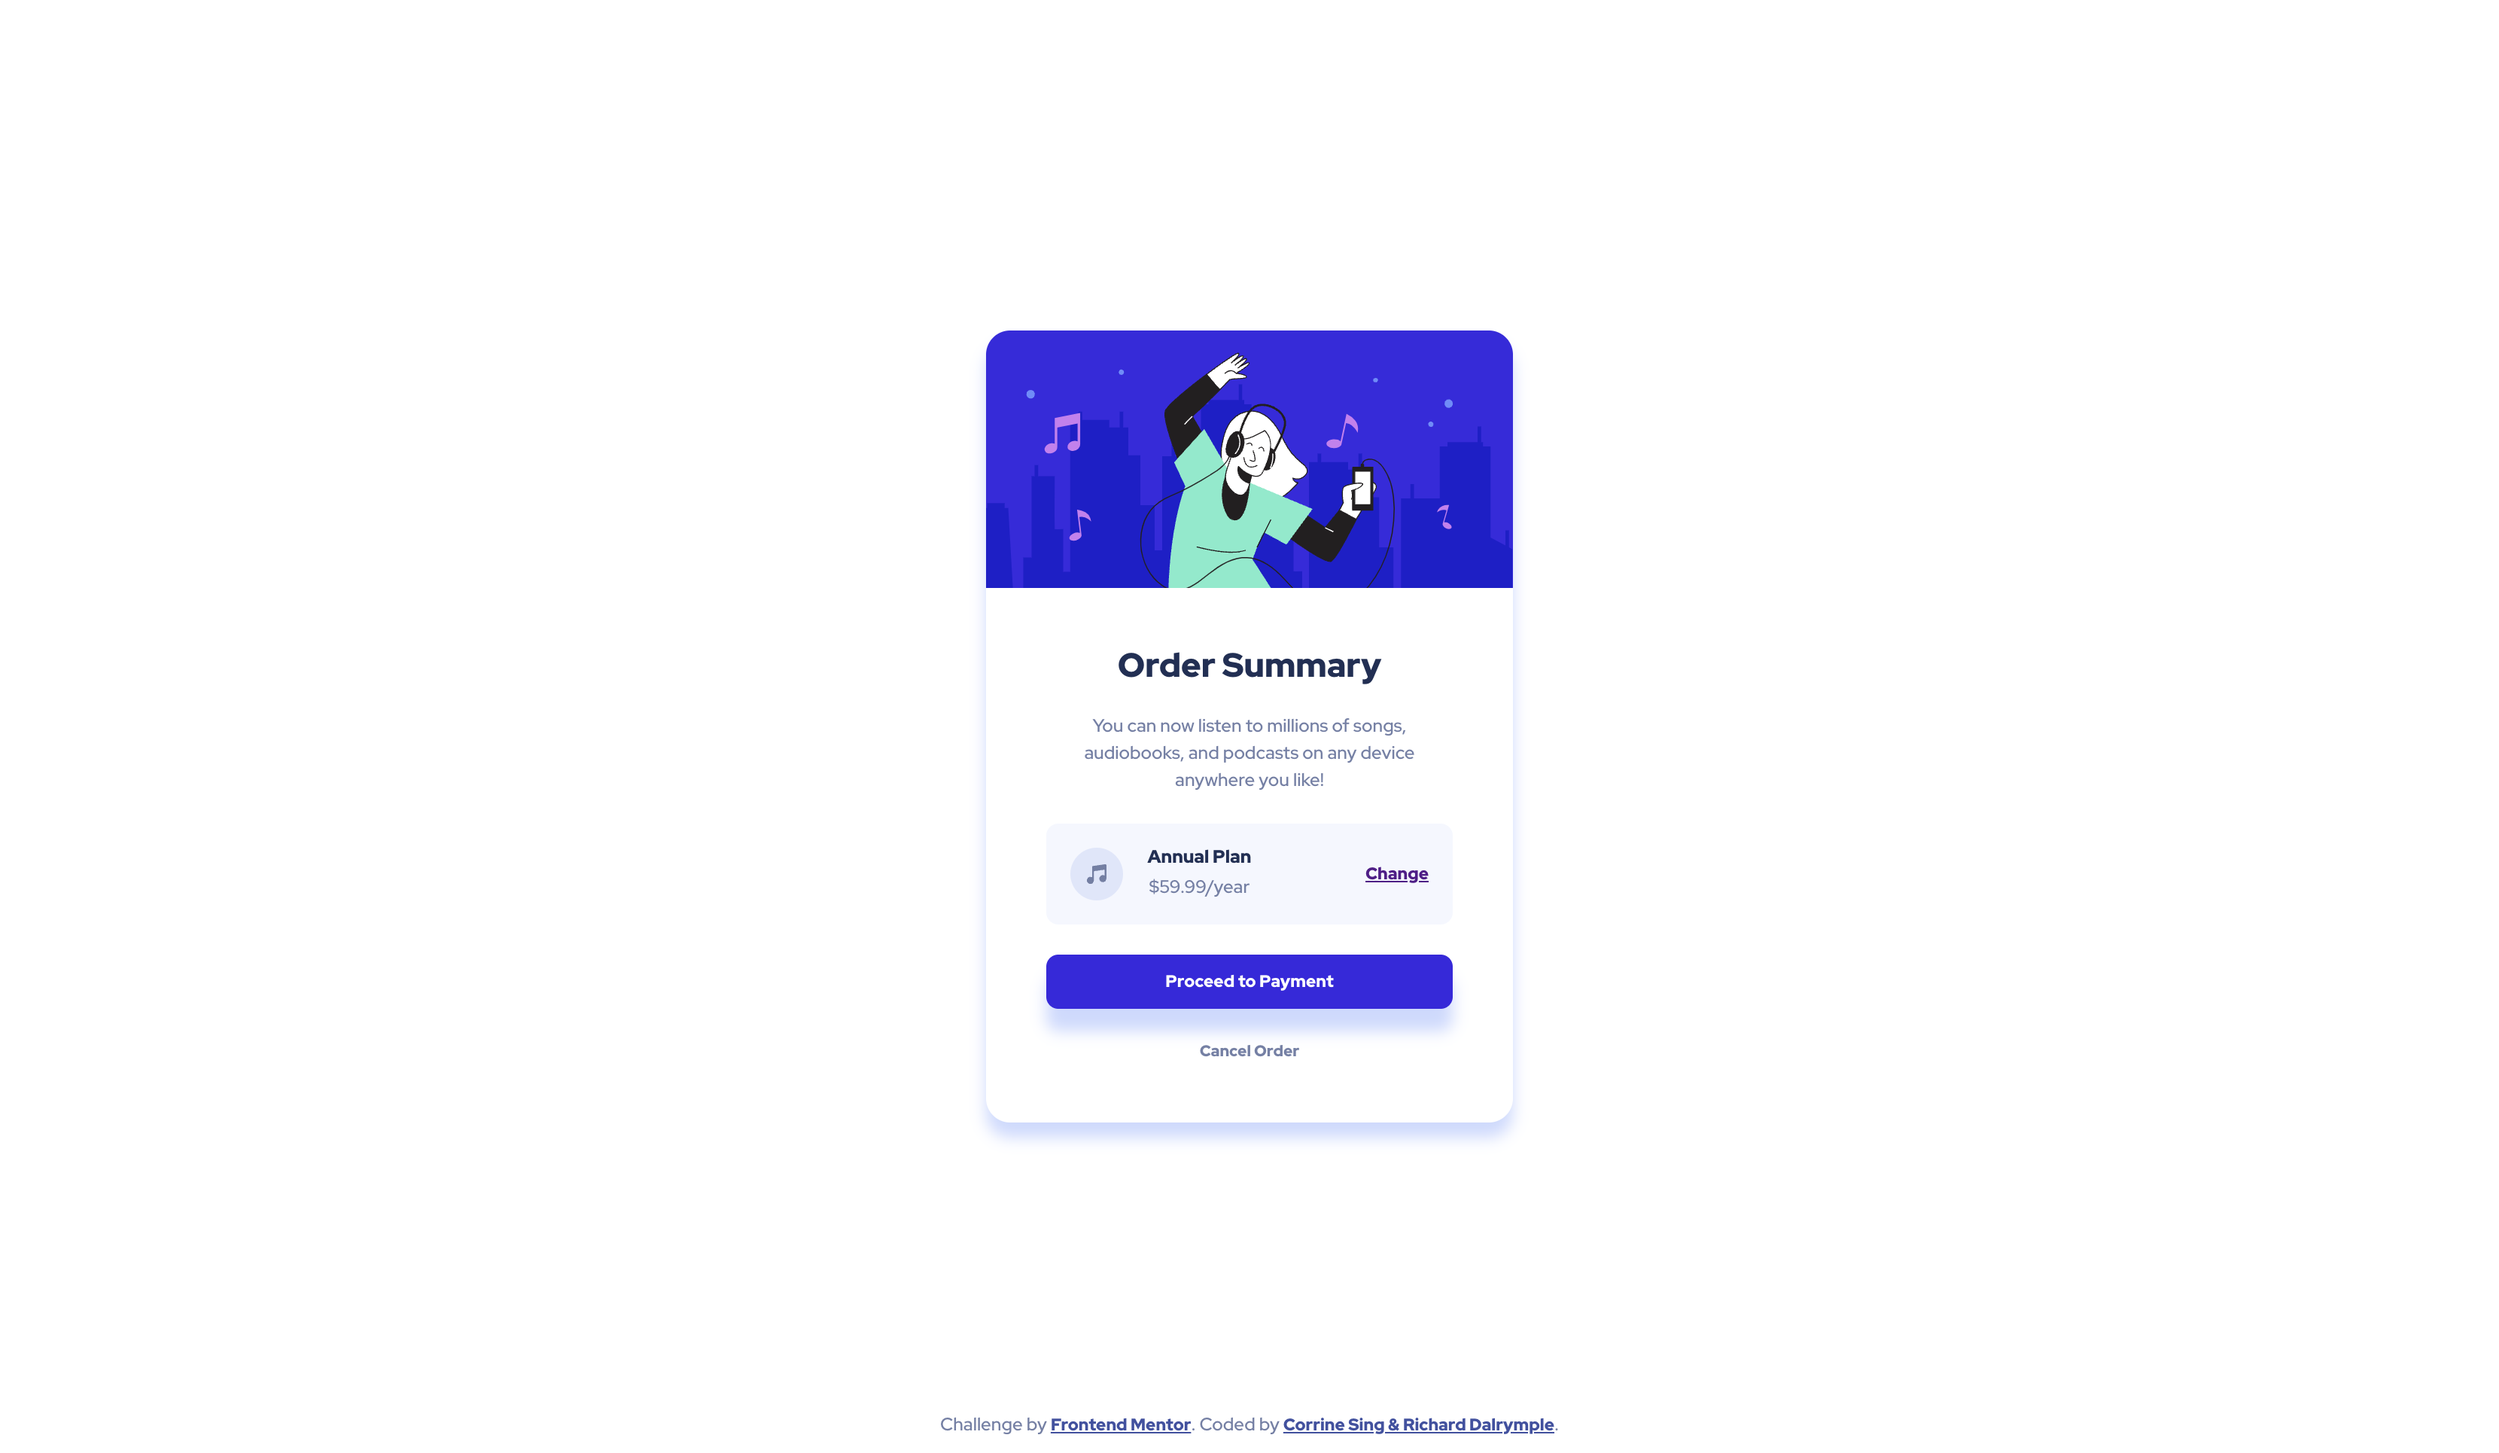
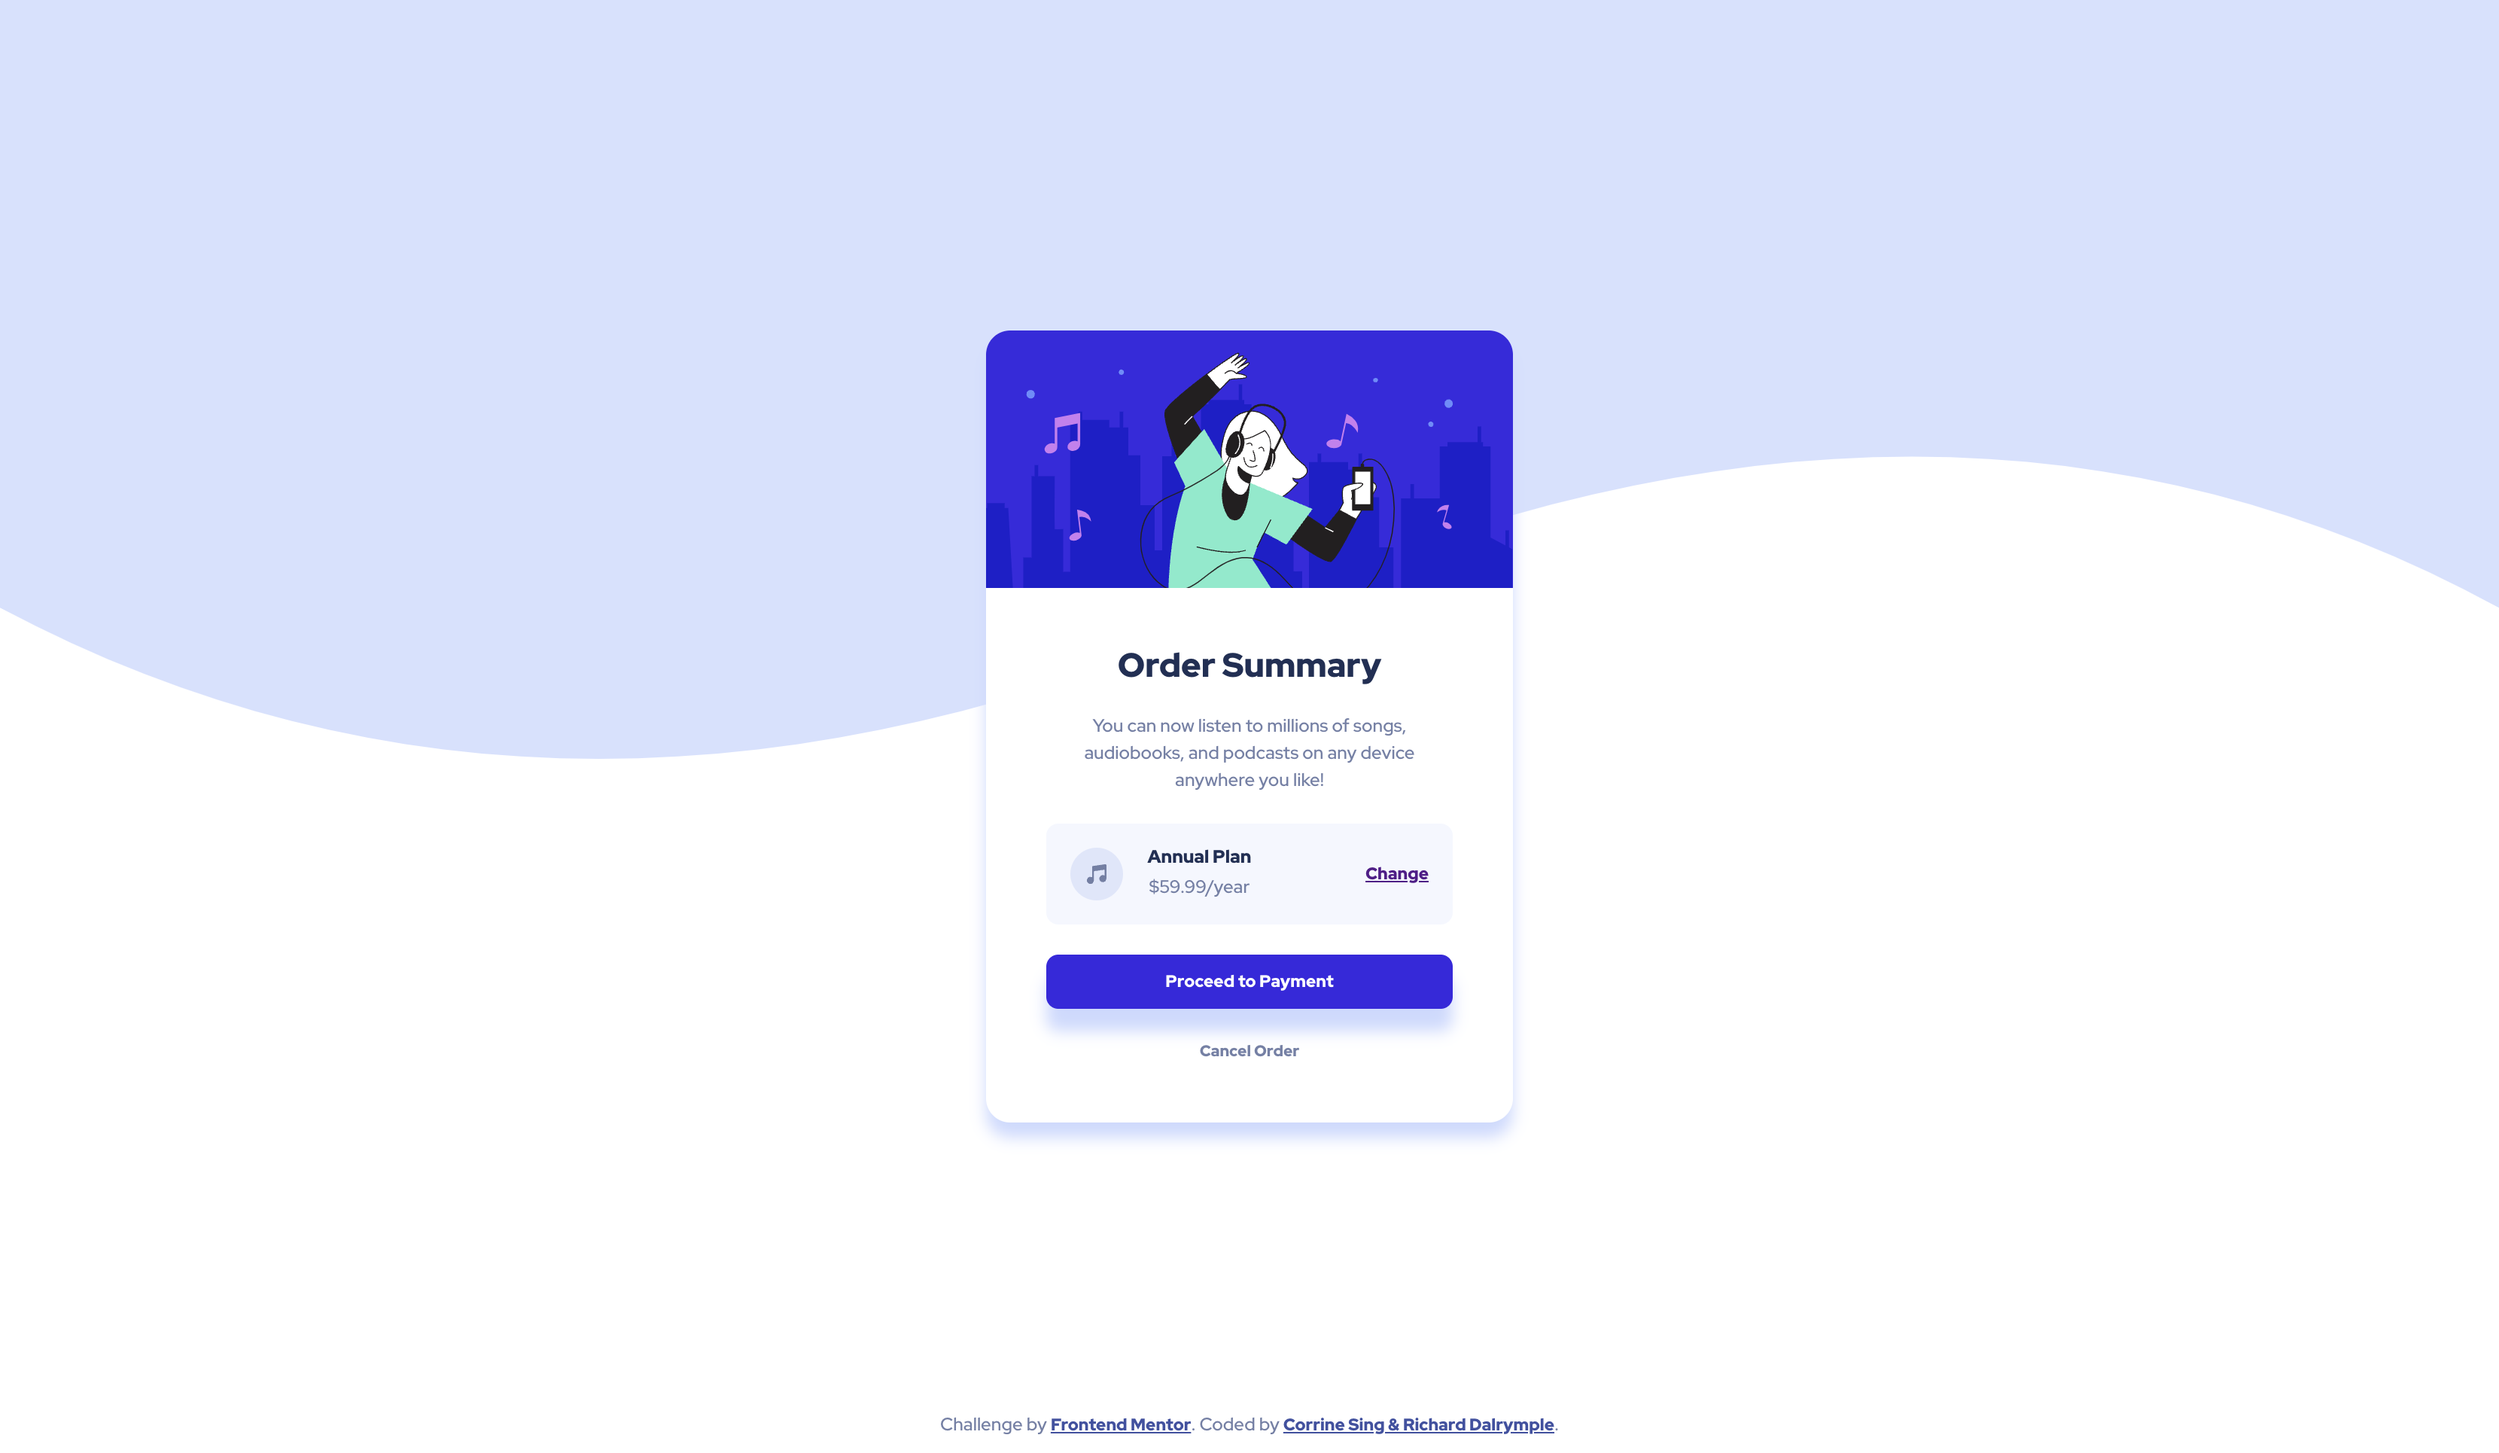
fixes

diff --git a/static/style.css b/static/style.css
@@ -24,7 +24,7 @@ body {
   justify-content: center;
   align-items: center;
   min-height: 100vh;
-  background-image: url(images/pattern-background-desktop.svg);
+  background-image: url('/images/pattern-background-desktop.svg');
   background-repeat: no-repeat;
   background-size: contain;
   font-family: "Red Hat Display", sans-serif;
